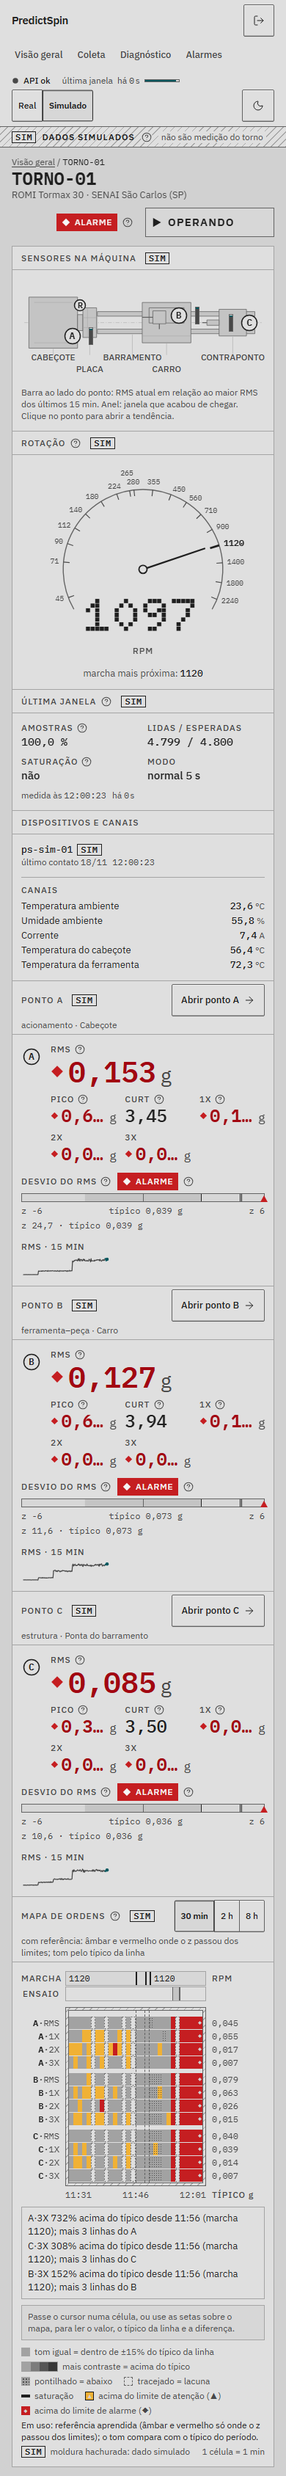
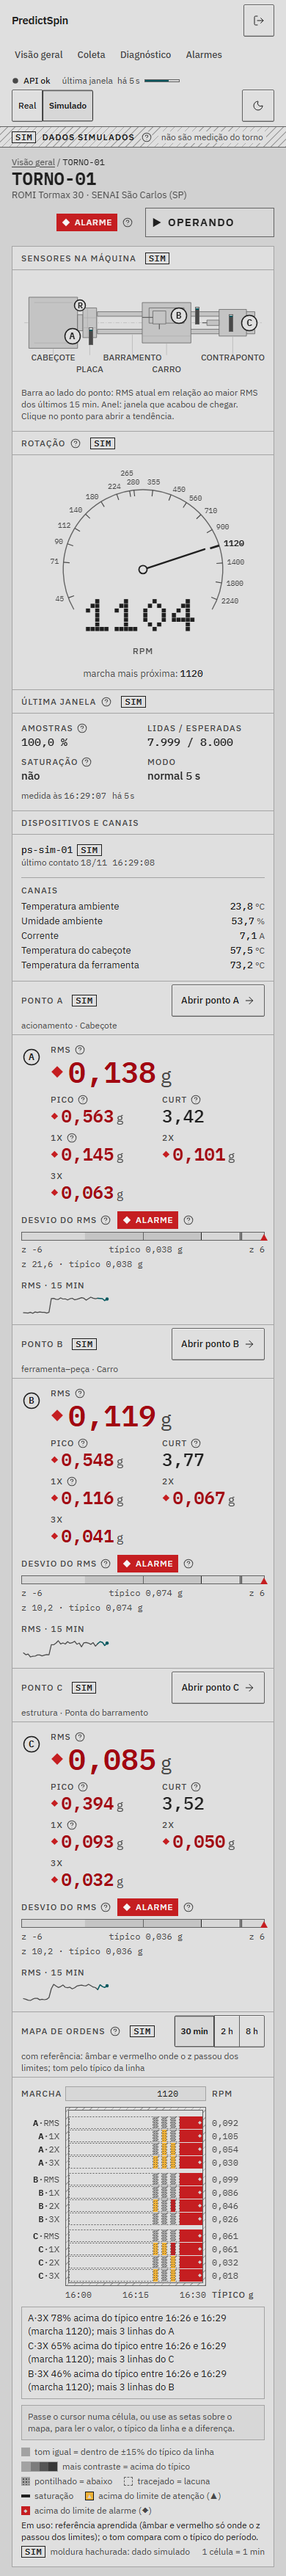
fix(painel): leituras do ponto não cortam a 390 px com valores em desvio
A grade de pico, curtose e ordens da tela da máquina passa a 2 colunas em módulo estreito; teste Playwright a 390 px com as leituras em desvio, caso na galeria e prints de 390 px refeitos.

diff --git a/painel/src/telas/maquina/TelaMaquina.tsx b/painel/src/telas/maquina/TelaMaquina.tsx
@@ -19,6 +19,7 @@ import { EsquemaTorno, type MarcadorNoTorno } from '@/componentes/instrumento/Es
 import { EstadoCarregando, EstadoErro, EstadoVazio } from '@/componentes/instrumento/Estados'
 import { MarcaDeIdade } from '@/componentes/instrumento/Idade'
 import { Leitura } from '@/componentes/instrumento/Leitura'
+import { LeiturasDoPonto } from '@/componentes/instrumento/LeiturasDoPonto'
 import {
   MapaOrdens,
   type IntervaloDoMapa,
@@ -36,7 +37,6 @@ import { Explica } from '@/componentes/ui/explica'
 import { ToggleGroup, ToggleGroupItem } from '@/componentes/ui/toggle-group'
 import { desvioDoZ, estadoDaMaquina, reguaEmZ, resumoDosPontos } from '@/dominio/estado'
 import {
-  formatarCurtose,
   formatarDataHora,
   formatarG,
   formatarHora,
@@ -511,60 +511,7 @@ function ModuloDoPonto({
       <div className="flex flex-col gap-3">
         <div className="flex items-start gap-3">
           <MarcadorPonto codigo={ponto.codigo} className="mt-1" />
-          <div className="grid min-w-0 flex-1 grid-cols-3 gap-x-3 gap-y-2">
-            <Leitura
-              rotulo="RMS"
-              explica="rms"
-              valor={formatarG(medida?.rms_g)}
-              unidade="g"
-              tamanho="destaque"
-              desvio={desvio('rms_g')}
-              velho={velho}
-              className="col-span-3"
-            />
-            <Leitura
-              rotulo="Pico"
-              explica="pico"
-              valor={formatarG(medida?.pico_g)}
-              desvio={desvio('pico_g')}
-              unidade="g"
-              tamanho="grande"
-              velho={velho}
-            />
-            <Leitura
-              rotulo="Curt"
-              explica="curtose"
-              titulo="curtose"
-              valor={formatarCurtose(medida?.curtose)}
-              tamanho="grande"
-              velho={velho}
-            />
-            <Leitura
-              rotulo="1X"
-              explica="ordens"
-              valor={formatarG(medida?.o1x)}
-              desvio={desvio('o1x')}
-              unidade="g"
-              tamanho="grande"
-              velho={velho}
-            />
-            <Leitura
-              rotulo="2X"
-              valor={formatarG(medida?.o2x)}
-              desvio={desvio('o2x')}
-              unidade="g"
-              tamanho="grande"
-              velho={velho}
-            />
-            <Leitura
-              rotulo="3X"
-              valor={formatarG(medida?.o3x)}
-              desvio={desvio('o3x')}
-              unidade="g"
-              tamanho="grande"
-              velho={velho}
-            />
-          </div>
+          <LeiturasDoPonto medida={medida} desvio={desvio} velho={velho} />
         </div>
         {janela && !medida ? (
           <p className="border border-dashed border-linha-forte px-2 py-1 text-12 text-texto">

diff --git a/painel/src/componentes/instrumento/LeiturasDoPonto.tsx b/painel/src/componentes/instrumento/LeiturasDoPonto.tsx
@@ -1,0 +1,91 @@
+import { formatarCurtose, formatarG } from '@/dominio/formato'
+
+import { Leitura } from './Leitura'
+
+type Desvio = 'atencao' | 'alarme' | null
+
+/** As medidas de um ponto numa janela (o que a tela da máquina mostra). */
+export type MedidasDoPonto = {
+  rms_g?: number | null
+  pico_g?: number | null
+  curtose?: number | null
+  o1x?: number | null
+  o2x?: number | null
+  o3x?: number | null
+}
+
+/**
+ * Leituras de um ponto: RMS em destaque e, embaixo, pico, curtose e as ordens 1X, 2X e 3X. Em contêiner
+ * estreito (celular, 390 px) a grade fica em 2 colunas: com 3, o valor em desvio (forma do estado ao lado
+ * do número) não cabia e cortava com reticências.
+ */
+export function LeiturasDoPonto({
+  medida,
+  desvio,
+  velho,
+}: {
+  medida: MedidasDoPonto | undefined
+  /** Desvio de cada medida pelo nome da API (rms_g, pico_g, o1x...). */
+  desvio: (nome: string) => Desvio
+  velho: boolean
+}) {
+  return (
+    <div
+      className="grid min-w-0 flex-1 grid-cols-2 gap-x-3 gap-y-2 @min-[28rem]:grid-cols-3"
+      data-testid="leituras-do-ponto"
+    >
+      <Leitura
+        rotulo="RMS"
+        explica="rms"
+        valor={formatarG(medida?.rms_g)}
+        unidade="g"
+        tamanho="destaque"
+        desvio={desvio('rms_g')}
+        velho={velho}
+        className="col-span-2 @min-[28rem]:col-span-3"
+      />
+      <Leitura
+        rotulo="Pico"
+        explica="pico"
+        valor={formatarG(medida?.pico_g)}
+        desvio={desvio('pico_g')}
+        unidade="g"
+        tamanho="grande"
+        velho={velho}
+      />
+      <Leitura
+        rotulo="Curt"
+        explica="curtose"
+        titulo="curtose"
+        valor={formatarCurtose(medida?.curtose)}
+        tamanho="grande"
+        velho={velho}
+      />
+      <Leitura
+        rotulo="1X"
+        explica="ordens"
+        valor={formatarG(medida?.o1x)}
+        desvio={desvio('o1x')}
+        unidade="g"
+        tamanho="grande"
+        velho={velho}
+      />
+      <Leitura
+        rotulo="2X"
+        valor={formatarG(medida?.o2x)}
+        desvio={desvio('o2x')}
+        unidade="g"
+        tamanho="grande"
+        velho={velho}
+      />
+      <Leitura
+        rotulo="3X"
+        valor={formatarG(medida?.o3x)}
+        desvio={desvio('o3x')}
+        unidade="g"
+        tamanho="grande"
+        velho={velho}
+      />
+    </div>
+  )
+}

diff --git a/painel/e2e/piores-casos.spec.ts b/painel/e2e/piores-casos.spec.ts
@@ -97,6 +97,59 @@ test('valores no limite do contrato cabem inteiros no ponto, a 390 px', async ({
   await semRolagemLateral(page)
 })
 
+/** Valores de dois dígitos e pico, 1X, 2X e 3X em desvio (a forma do estado vai ao lado do número). */
+function emDesvio(corpo: unknown): unknown {
+  const janela = (j: Json) => {
+    if (typeof j.medido_em !== 'string' || typeof j.pontos !== 'object' || j.pontos === null) return
+    for (const ponto of Object.values(j.pontos as Record<string, Json>)) {
+      Object.assign(ponto, {
+        rms_g: 12.345,
+        pico_g: 15.987,
+        curtose: 12.34,
+        o1x: 10.876,
+        o2x: 18.765,
+        o3x: 17.654,
+        avaliacao: {
+          estado: 'alarme',
+          etapa_ref: 'T3',
+          generica: true,
+          situacao: 'avaliada',
+          z: { rms_g: 40, pico_g: 40, o1x: 40, o2x: 4, o3x: 40 },
+        },
+      })
+    }
+  }
+  if (Array.isArray(corpo)) {
+    for (const j of corpo) janela(j as Json)
+  } else if (corpo && typeof corpo === 'object') {
+    const c = corpo as Json
+    if (Array.isArray(c.conteudo)) {
+      for (const j of c.conteudo) janela(j as Json)
+    } else janela(c)
+  }
+  return corpo
+}
+
+test('tela da máquina a 390 px: pico, 1X, 2X e 3X em desvio cabem sem cortar', async ({ page }) => {
+  await usarFonte(page, 'simulado')
+  await entrarPelaTela(page)
+  await trocarRespostas(page, (_url, corpo) => emDesvio(corpo))
+  await page.goto('/maquinas/1')
+  const leituras = page.getByTestId('leituras-do-ponto').first()
+  await expect(leituras.getByText('18,765', { exact: true })).toBeVisible()
+  // as quatro leituras de baixo estão em desvio (forma do estado ao lado do número)
+  await expect(leituras.locator('[data-estado]')).toHaveCount(5)
+  const cortados = await page
+    .getByTestId('leituras-do-ponto')
+    .locator('.valor')
+    .evaluateAll(
+      (els) =>
+        els.filter((el) => el.scrollWidth > el.clientWidth + 1 && /\d/.test(el.textContent)).length,
+    )
+  expect(cortados).toBe(0)
+  await semRolagemLateral(page)
+})
+
 test('nome da máquina e código do ponto no limite do banco', async ({ page }) => {
   const codigo = 'TORNO-CNC-ROMI-GL280-LINHA-USINAGEM-0001'
   await usarFonte(page, 'simulado')

diff --git a/painel/src/galeria/Galeria.tsx b/painel/src/galeria/Galeria.tsx
@@ -11,6 +11,7 @@ import {
 import { GraficoTendencia } from '@/componentes/instrumento/GraficoTendencia'
 import { MarcaDeIdade } from '@/componentes/instrumento/Idade'
 import { Leitura } from '@/componentes/instrumento/Leitura'
+import { LeiturasDoPonto } from '@/componentes/instrumento/LeiturasDoPonto'
 import { LinhaAlarme, LinhaOrdemServico } from '@/componentes/alarmes/LinhasDeAlarme'
 import { MapaOrdens } from '@/componentes/instrumento/MapaOrdens'
 import { Explica } from '@/componentes/ui/explica'
@@ -38,6 +39,7 @@ import {
   ALARMES_EXEMPLO,
   ENSAIOS_MAPA_EXEMPLO,
   EVENTOS_MAPA_EXEMPLO,
+  LEITURAS_EM_DESVIO,
   MAPA_ABAIXO,
   MAPA_B_FUGINDO,
   MAPA_LACUNA_E_SATURACAO,
@@ -197,6 +199,18 @@ export function Galeria() {
               unidade="rpm"
               tamanho="grande"
             />
+          </Caso>
+          <Caso titulo="ponto com pico, 1X, 2X e 3X em desvio (pior caso)">
+            <Modulo rotulo="Ponto B" className="self-stretch">
+              <div className="flex items-start gap-3" data-testid="ponto-em-desvio">
+                <MarcadorPonto codigo="B" className="mt-1" />
+                <LeiturasDoPonto
+                  medida={LEITURAS_EM_DESVIO}
+                  desvio={(nome) => (nome === 'o2x' ? 'atencao' : 'alarme')}
+                  velho={false}
+                />
+              </div>
+            </Modulo>
           </Caso>
         </Secao>
 

diff --git a/painel/src/galeria/dados.ts b/painel/src/galeria/dados.ts
@@ -179,6 +179,19 @@ export const PICO_TENDENCIA: (number | null)[] = serieExemplo(120, 0.19, 0.03, 1
 export const NOME_MUITO_LONGO = 'TORNO-CNC-ROMI-GL-280-LINHA-DE-USINAGEM-PESADA-SETOR-B-POSICAO-14'
 export const NUMERO_ENORME = 987_654_321.123
 
+/**
+ * Pior caso da tela da máquina a 390 px: valores com dois dígitos inteiros e pico, 1X, 2X e 3X em
+ * desvio (a forma do estado ocupa largura ao lado do número). Valores de exemplo, não medidos.
+ */
+export const LEITURAS_EM_DESVIO = {
+  rms_g: 12.345,
+  pico_g: 15.987,
+  curtose: 12.34,
+  o1x: 10.876,
+  o2x: 18.765,
+  o3x: 17.654,
+}
+
 /** Rotações nominais de exemplo (as mesmas da placa do torno, para o tacômetro da galeria). */
 export const NOMINAIS_EXEMPLO = [
   45, 71, 90, 112, 140, 180, 224, 265, 280, 355, 450, 560, 710, 900, 1120, 1400, 1800, 2240,

diff --git a/docs/painel.md b/docs/painel.md
@@ -714,8 +714,12 @@ ação recomendada nas OS era um cartão dentro de cartão em fonte grande; agor
 15 px; (3) módulo Referência da Coleta ficava espremido em uma coluna; agora ocupa a largura toda. Não
 aceitos: valores de cobertura como "26/3" (matriz de coleta antiga, fora desta parte); tabela do Diagnóstico a
 390 px (rola dentro do próprio módulo, a página não rola de lado); "carregando" no módulo Qualidade
-(já existente). Ficou anotado, sem correção: a leitura PICO, 1X, 2X e 3X a 390 px da tela da máquina corta com
-reticências quando os quatro valores estão em desvio, por causa da forma ao lado do número.
+(já existente). A leitura PICO, 1X, 2X e 3X a 390 px da tela da máquina cortava com reticências quando os
+quatro valores estavam em desvio, por causa da forma ao lado do número. Corrigido depois da revisão: a grade
+das leituras (`LeiturasDoPonto`) fica em 2 colunas quando o módulo tem menos de 28rem e em 3 acima disso;
+teste `e2e/piores-casos.spec.ts` ("tela da máquina a 390 px: pico, 1X, 2X e 3X em desvio cabem sem
+cortar", valores de dois dígitos e as cinco leituras em desvio; com a grade antiga acusava 12 valores
+cortados) e caso na galeria. Prints `l2-vivo-*-390.png` refeitos com o simulador em modo severo.
 
 Evidências: [`docs/evidencias/painel/`](evidencias/painel/) (16 prints novos, 1920 e 390, dois temas, das
 telas Alarmes, máquina, Diagnóstico, Coleta e ponto; os antigos das mesmas telas foram substituídos). Os
